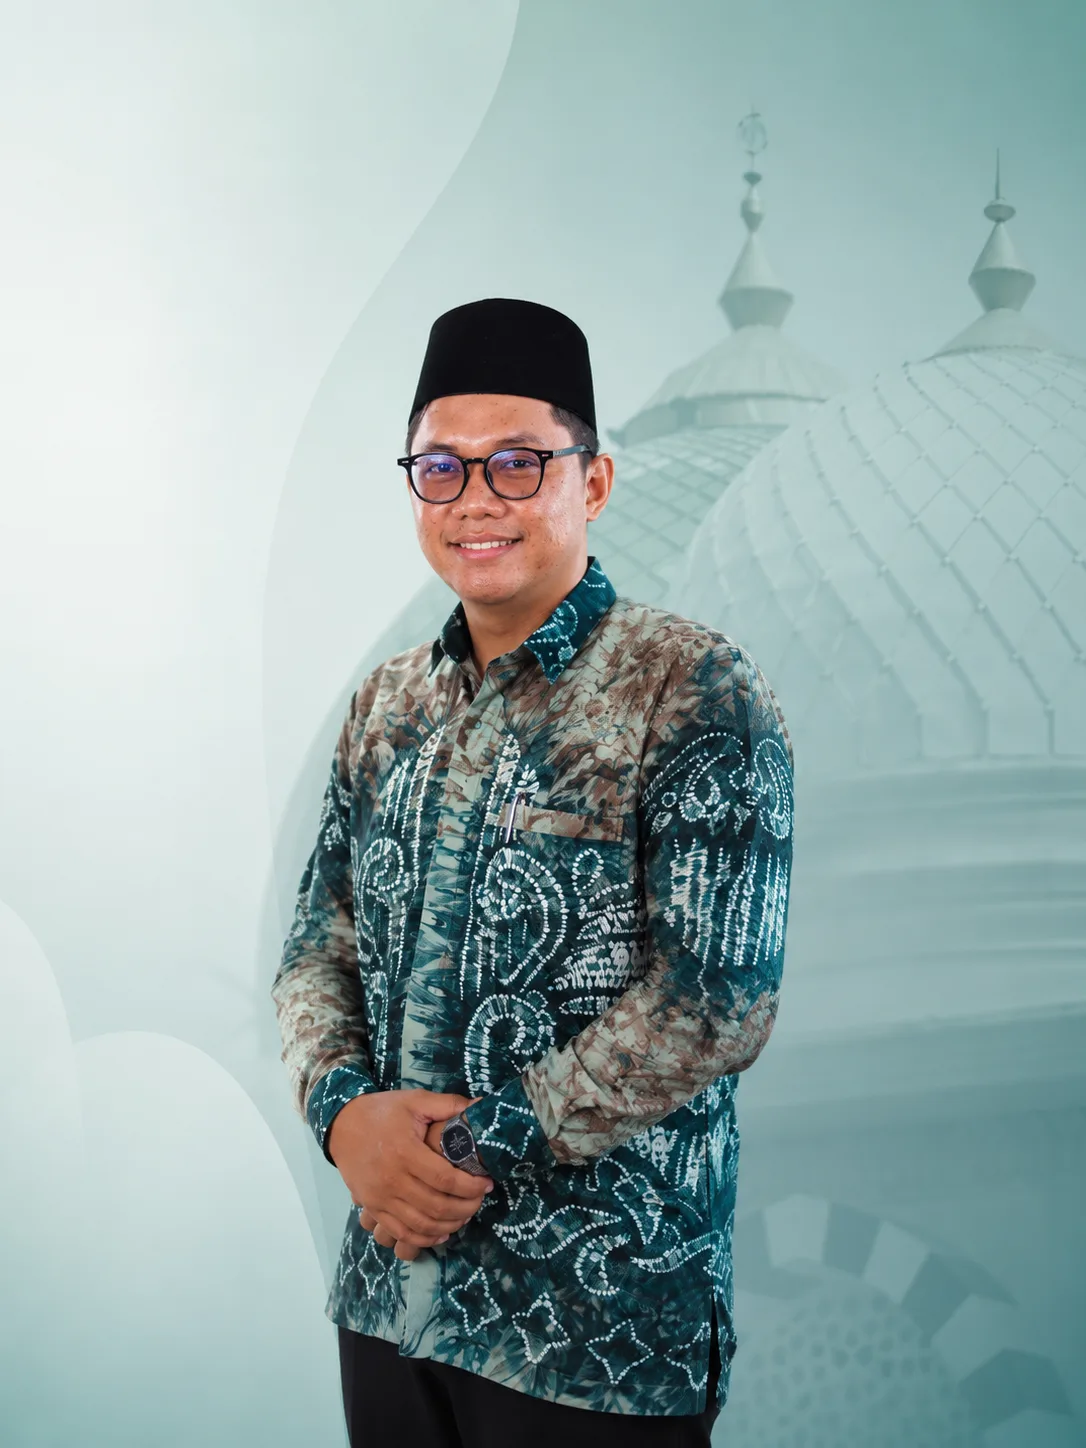
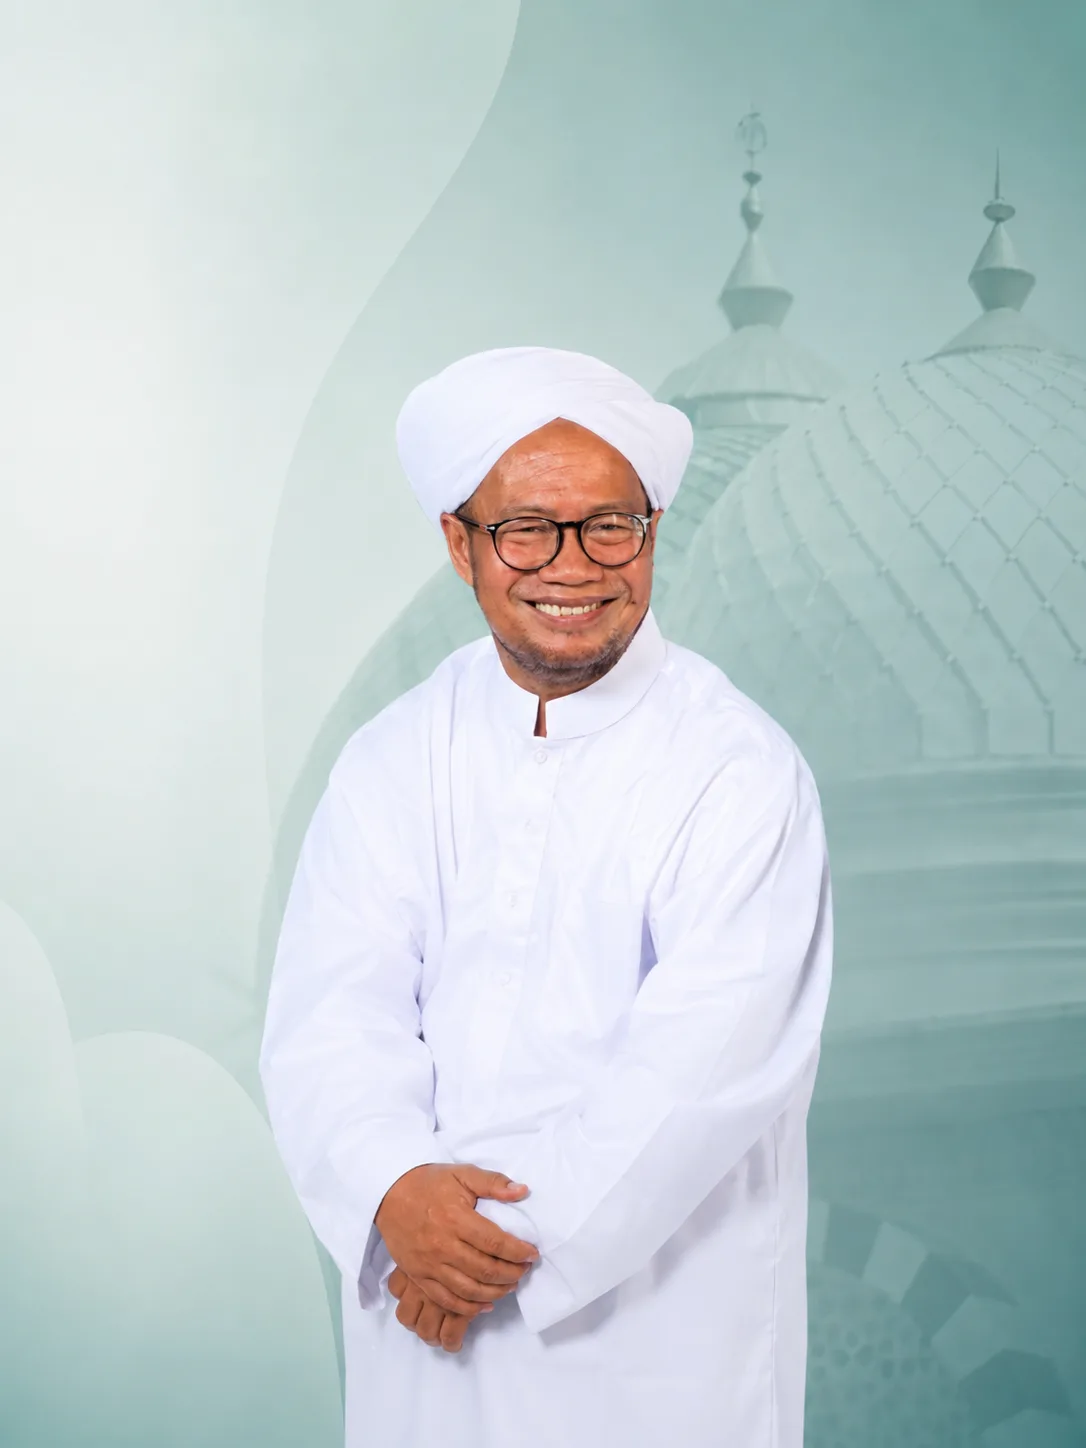
fix(philosophy): update principal image and name to K.H. Juchran Erfan Ali

diff --git a/src/components/sections/philosophy.tsx b/src/components/sections/philosophy.tsx
@@ -54,10 +54,10 @@ export default function Philosophy() {
             </div>
             <div className="absolute -bottom-8 -right-8 bg-card rounded-2xl shadow-md px-5 py-4 border border-secondary/20 hidden sm:block">
               <p className="text-sm font-semibold text-foreground leading-tight">
-                Muhammad Kukuh R. A., S.Kom.
+                K.H. Juchran Erfan Ali
               </p>
               <p className="text-xs text-muted-foreground mt-1">
-                Kepala SMKIT Ushuluddin
+                Pimpinan Pondok Pesantren Ushuluddin
               </p>
             </div>
           </div>